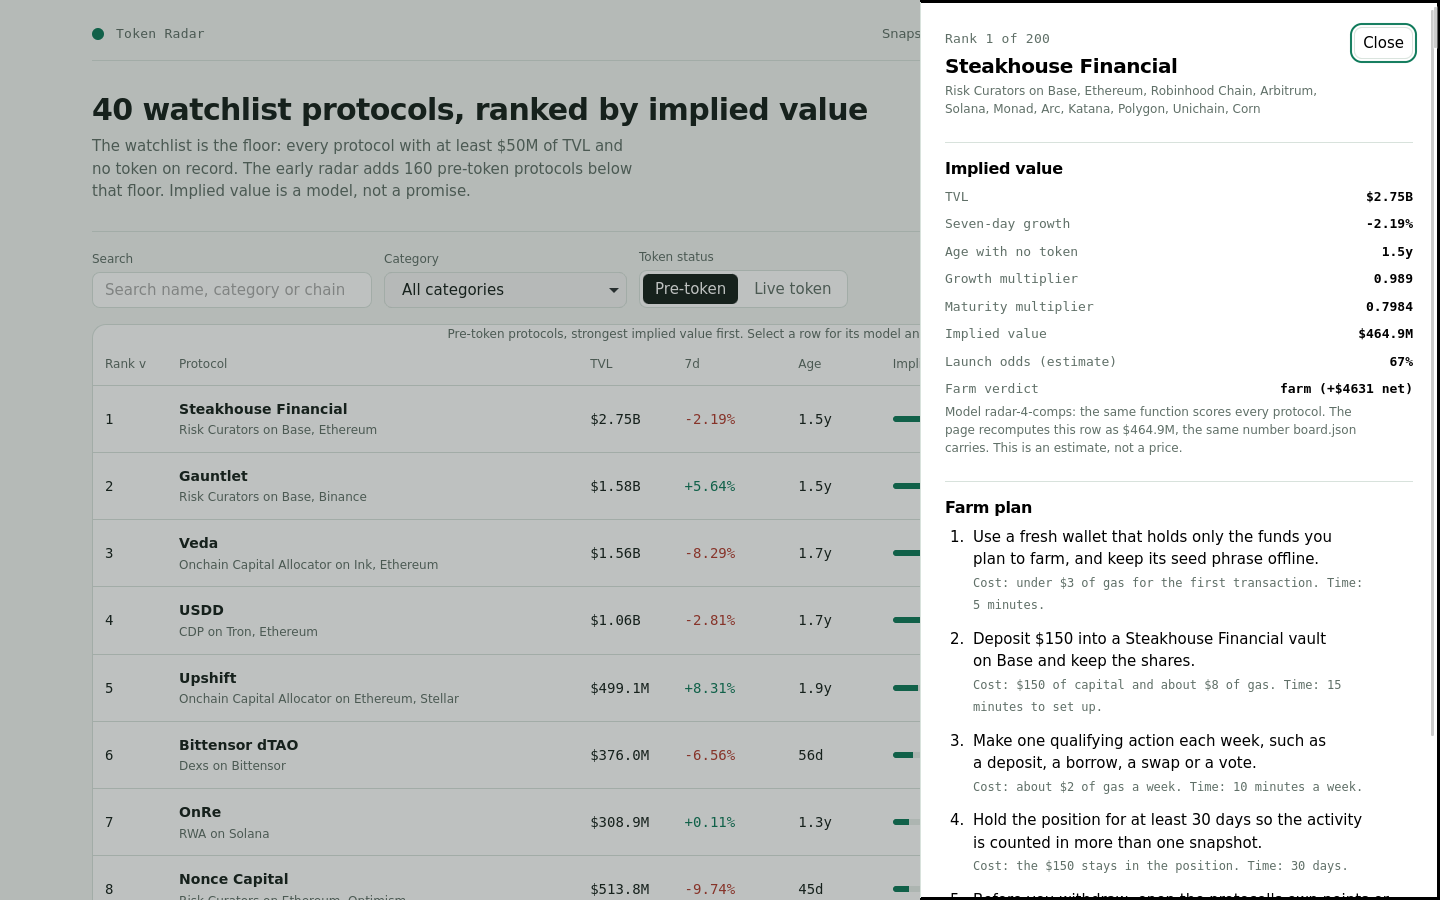
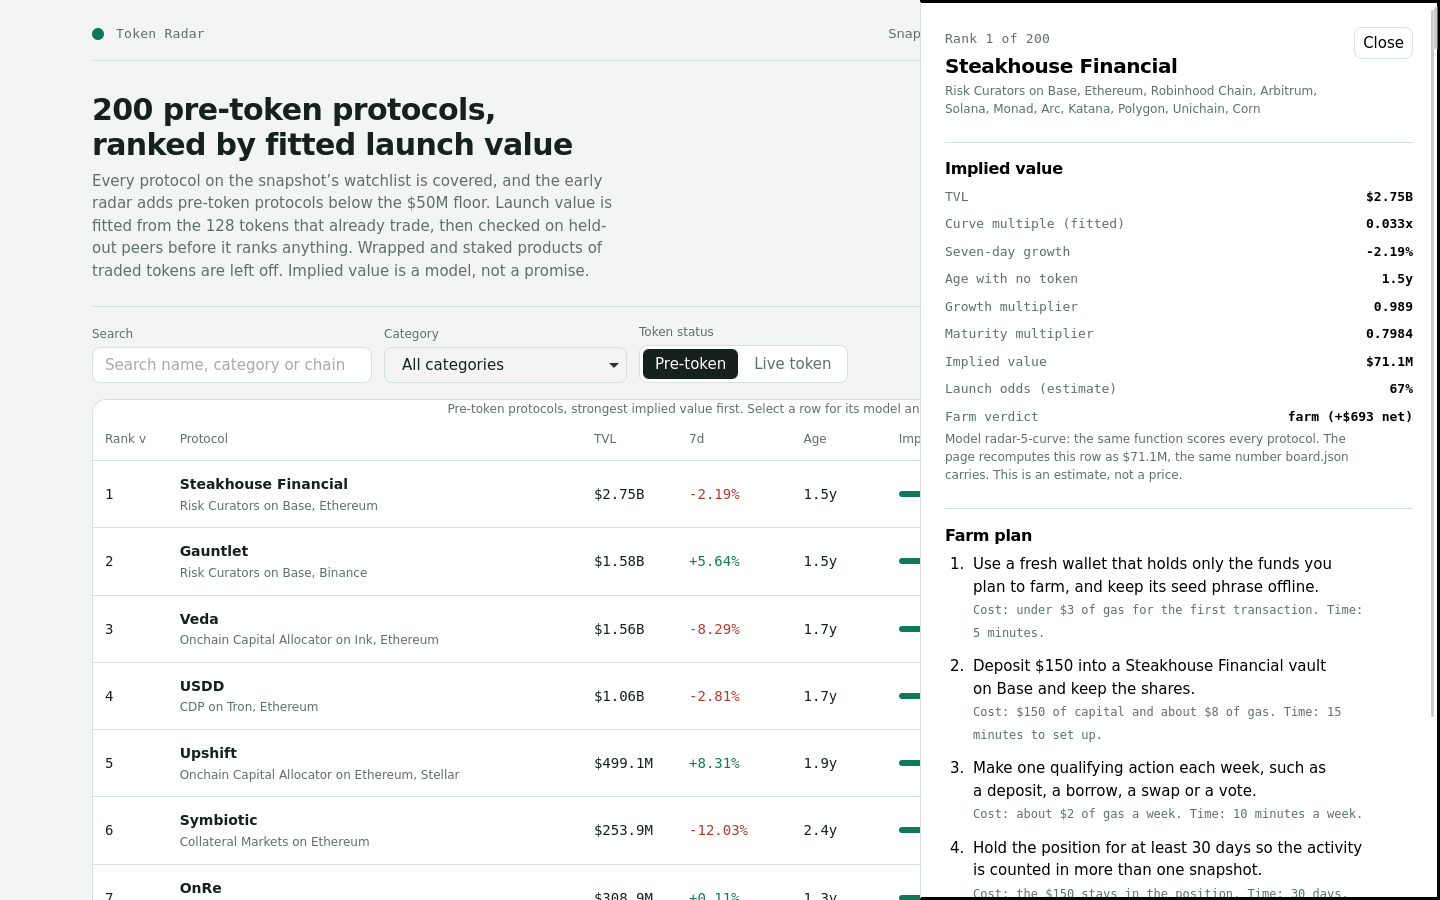
radar-5-curve: size-curve ranking fitted on 128 anchors, walk-forward improvement vs flat, wrapped/staked excluded, KPI strip, side-drawer detail

diff --git a/dashboard/app.js b/dashboard/app.js
@@ -163,14 +163,14 @@
   function lede() {
     return el('section', { class: 'lede' },
       el('div', null,
-        el('h1', { text: DATA.watchlist_size + ' watchlist protocols, ranked by implied value' }),
-        el('p', { text: 'The watchlist is the floor: every protocol with at least $' + Math.round(DATA.floor_usd / 1e6) + 'M of TVL and no token on record. The early radar adds ' + DATA.early_size + ' pre-token protocols below that floor. Implied value is a model, not a promise.' })
+        el('h1', { text: DATA.board_size + ' pre-token protocols, ranked by fitted launch value' }),
+        el('p', { text: 'Every protocol on the snapshot’s watchlist is covered, and the early radar adds pre-token protocols below the $' + Math.round(DATA.floor_usd / 1e6) + 'M floor. Launch value is fitted from the ' + DATA.anchor_size + ' tokens that already trade, then checked on held-out peers before it ranks anything. Wrapped and staked products of traded tokens are left off. Implied value is a model, not a promise.' })
       ),
-      el('div', { class: 'facts' },
-        el('div', { class: 'fact' }, el('span', { text: 'Watchlist covered' }), el('b', { text: DATA.watchlist_size + ' / ' + DATA.watchlist_size })),
-        el('div', { class: 'fact' }, el('span', { text: 'Pre-token rows scored' }), el('b', { text: String(DATA.board_size) })),
-        el('div', { class: 'fact' }, el('span', { text: 'Early rows below the floor' }), el('b', { text: String(DATA.early_size) })),
-        el('div', { class: 'fact' }, el('span', { text: 'Live-token protocols set aside' }), el('b', { text: String(DATA.live_size) }))
+      el('div', { class: 'kpi' },
+        el('div', { class: 'kpi-cell' }, el('b', { text: String(DATA.scanned_size) }), el('span', { text: 'protocols scanned' })),
+        el('div', { class: 'kpi-cell' }, el('b', { text: String(DATA.pre_token_size) }), el('span', { text: 'pre-token candidates' })),
+        el('div', { class: 'kpi-cell' }, el('b', { text: DATA.watchlist_size + ' / ' + DATA.watchlist_size }), el('span', { text: 'watchlist covered' })),
+        el('div', { class: 'kpi-cell' }, el('b', { text: String(DATA.anchor_size) }), el('span', { text: 'traded-token anchors' }))
       )
     );
   }
@@ -286,25 +286,20 @@
   function modelPanel() {
     var m = DATA.model;
     var c = DATA.comps;
-    var cats = Object.keys(c.byCategory).sort(function (a, b) { return c.byCategory[b].n - c.byCategory[a].n; });
-    var compRows = cats.map(function (k) {
-      return el('tr', null,
-        el('td', { text: k }),
-        el('td', { class: 'num', text: String(c.byCategory[k].n) }),
-        el('td', { class: 'num', text: c.byCategory[k].multiple.toFixed(3) + 'x' })
-      );
-    });
+    var v = c.validation;
+    var imp = v.improvement.toFixed(2);
     return el('section', { class: 'panel model' },
       el('h2', { text: 'How implied value is computed' }),
-      el('p', { class: 'sub', text: 'Model ' + DATA.model_version + ': the launch multiple is fitted from the snapshot’s own live tokens, not a flat guess. For each category with at least three traded protocols, the median mcap/TVL is the multiple a pre-token peer inherits; thinner categories fall back to the global median ' + c.global.toFixed(3) + 'x fitted on ' + c.live_n + ' live tokens. The curve is checked walk-forward on held-out live peers before it is used. No protocol name is special-cased.' }),
+      el('p', { class: 'sub', text: 'Model ' + DATA.model_version + ': launch value follows a size curve fitted on the snapshot’s own ' + c.live_n + ' traded tokens, not a flat guess and not a list of names. A log-log regression of market cap on TVL gives mcap = exp(' + c.reg_a.toFixed(2) + ' + ' + c.reg_b.toFixed(2) + ' x ln(TVL)); a pre-token protocol inherits that curve at its own TVL, then growth and maturity adjust it. The same function scores every row.' }),
       el('div', { class: 'formula' },
-        'implied = round( tvl_usd x comp_multiple(category) x (1 + clamp(change_7d, ' + m.growth_floor + ', ' + m.growth_cap + ') / 100 x ' + m.growth_weight + ') x (' + m.maturity_floor + ' + min(age_days, ' + m.maturity_days + ') / ' + m.maturity_days + ' x ' + m.maturity_range + ') )'
+        'implied = round( tvl_usd x curve_multiple(tvl) x (1 + clamp(change_7d, ' + m.growth_floor + ', ' + m.growth_cap + ') / 100 x ' + m.growth_weight + ') x (' + m.maturity_floor + ' + min(age_days, ' + m.maturity_days + ') / ' + m.maturity_days + ' x ' + m.maturity_range + ') )'
       ),
-      el('table', { class: 'comp-table' },
-        el('thead', null, el('tr', null, el('th', { text: 'Category' }), el('th', { text: 'Live comps' }), el('th', { text: 'Fitted multiple' }))),
-        el('tbody', null, compRows)
+      el('div', { class: 'validation' },
+        el('div', { class: 'val-cell' }, el('b', { text: imp + 'x' }), el('span', { text: 'better than a flat multiple, walk-forward' })),
+        el('div', { class: 'val-cell' }, el('b', { text: v.train_n + ' / ' + v.test_n }), el('span', { text: 'train / held-out peers' })),
+        el('div', { class: 'val-cell' }, el('b', { text: Math.round(v.within_2x * 100) + '%' }), el('span', { text: 'held-out predictions within 2x' }))
       ),
-      el('p', { class: 'sub', text: 'TVL and seven-day growth come from the snapshot. Age is the time since first listing, the best record of how long it has run with no token; an unlisted age uses ' + m.unknown_age_days + ' days. The early radar adds pre-token protocols below the watchlist floor by TVL; live-token protocols are set aside with their market caps shown as facts, not model output.' })
+      el('p', { class: 'sub', text: 'The curve is tested before it is used: every third traded token is held out, the curve is fitted on the rest, and its predictions are compared with a flat median multiple on the same held-out peers. The size curve cuts the median prediction error by ' + imp + 'x versus the flat baseline, so it earns its place on the board. TVL and seven-day growth come from the snapshot; age is the time since first listing (an unlisted age uses ' + m.unknown_age_days + ' days). Live-token protocols are set aside with their market caps shown as facts, not model output.' })
     );
   }
 
@@ -324,12 +319,13 @@
         el('h2', { id: 'detail-title', text: row.name }),
         el('p', { class: 'sub', text: (row.category || 'Other') + ' on ' + (row.chains && row.chains.length ? row.chains.join(', ') : 'an unnamed chain') })
       ),
-      el('button', { class: 'close', type: 'button', 'aria-label': 'Close details', text: 'Close', onclick: function () { dialog.close(); } })
+      el('button', { class: 'close', type: 'button', 'aria-label': 'Close details', text: 'Close', onclick: function () { dialog.removeAttribute('open'); state.selected = null; writeHash(); } })
     ));
     dialog.appendChild(el('section', { class: 'detail-section' },
       el('h3', { text: 'Implied value' }),
       el('div', { class: 'equation' },
         el('div', null, el('span', { text: 'TVL' }), el('b', { class: 'num', text: fmtUsd(row.tvl_usd) })),
+        el('div', null, el('span', { text: 'Curve multiple (fitted)' }), el('b', { class: 'num', text: row.base_multiple.toFixed(3) + 'x' })),
         el('div', null, el('span', { text: 'Seven-day growth' }), el('b', { class: 'num', text: fmtPct(row.change_7d) })),
         el('div', null, el('span', { text: 'Age with no token' }), el('b', { class: 'num', text: fmtAge(row.age_days) })),
         el('div', null, el('span', { text: 'Growth multiplier' }), el('b', { class: 'num', text: String(row.growth_multiplier) })),
@@ -349,11 +345,7 @@
         return el('li', null, el('b', { text: action }), el('span', { class: 'cost', text: tail }));
       }))
     ));
-    if (typeof dialog.showModal === 'function') {
-      if (!dialog.open) dialog.showModal();
-    } else {
-      dialog.setAttribute('open', '');
-    }
+    dialog.setAttribute('open', '');
   }
 
   function render() {

diff --git a/lib/model.ts b/lib/model.ts
@@ -6,16 +6,19 @@
 // snapshot's live-token protocols are kept apart and shown as the market's own values, never mixed into
 // the ranked board.
 //
-// Implied value follows only from the snapshot's own figures:
+// Implied value follows only from the snapshot's own figures. A log-log size curve is fitted on the
+// snapshot's traded tokens (mcap = exp(a + b x ln(TVL))); a pre-token protocol inherits that curve at
+// its own TVL, expressed as a multiple, then growth and maturity adjust it:
 //
-//   base       = tvl_usd x BASE_MULTIPLE
+//   curveMult  = clamp(exp(a + b x ln(tvl_usd)) / tvl_usd, 0.02, 3)
 //   growth     = clamp(change_7d, -60, 120) per cent
 //   growthMult = 1 + (growth / 100) x GROWTH_WEIGHT
 //   maturity   = 0.6 + min(age_days, 1095) / 1095 x 0.4   (age_days unknown: 365)
-//   implied    = max(1, round(base x growthMult x maturity))
+//   implied    = max(1, round(tvl_usd x curveMult x growthMult x maturity))
 //
-// The constants are the house model's, stated in the dashboard and changeable in the model sandbox. No
-// protocol name is ever special-cased: the same function scores every row.
+// The curve is tested walk-forward against a flat median multiple on held-out traded peers before it
+// ranks anything. Wrapped and staked products of traded tokens are left off the board. No protocol
+// name is ever special-cased: the same function scores every row.
 
 /** The snapshot's protocol entry: exactly the ten fields the sealed input carries. */
 export interface SnapshotProtocol {
@@ -64,7 +67,7 @@ export const MODEL: ModelConstants = {
 };
 
 /** The model's version label: the dashboard names it and the rules quote it. */
-export const MODEL_VERSION = 'radar-4-comps';
+export const MODEL_VERSION = 'radar-5-curve';
 
 /** A category's fitted launch multiple: median mcap/tvl of the live tokens in it, and how many fitted it. */
 export interface CompMultiple {
@@ -84,11 +87,13 @@ export interface Comps {
   reg_b: number;
 }
 
-/** Out-of-sample test of the comps curve: fit on a train split, predict the held-out live tokens. */
+/** Out-of-sample test of the comps curve against a flat-multiple baseline: fit on a train split, predict the held-out live tokens two ways, and report how much better the curve is. */
 export interface Validation {
   train_n: number;
   test_n: number;
-  median_ape: number;
+  curve_median_ape: number;
+  flat_median_ape: number;
+  improvement: number;
   within_2x: number;
 }
 
@@ -149,33 +154,40 @@ function regMcap(tvl: number, a: number, b: number): number {
   return Math.exp(a + b * Math.log(tvl));
 }
 
-/** Walk-forward test: hold out every third live token, fit the log-log curve on the rest, predict the held-out mcap, and report the median absolute percentage error and the share within 2x. */
+/** Walk-forward test: hold out every third live token, fit the log-log curve on the rest, and predict the held-out mcap two ways - the curve and a flat median multiple - then report how much better the curve is. */
 function walkForward(live: SnapshotProtocol[]): Validation {
   const train = live.filter((_, i) => i % 3 !== 0);
   const test = live.filter((_, i) => i % 3 === 0);
   const { a, b } = logLogFit(train);
-  const apes: number[] = [];
+  const flat = train.length > 0 ? median(train.map((p) => (p.mcap_usd as number) / p.tvl_usd)) : MODEL.base_multiple;
+  const curveApes: number[] = [];
+  const flatApes: number[] = [];
   let within = 0;
   for (const p of test) {
-    const pred = regMcap(p.tvl_usd, a, b);
     const actual = p.mcap_usd as number;
-    apes.push(Math.abs(pred - actual) / actual);
+    const pred = regMcap(p.tvl_usd, a, b);
+    curveApes.push(Math.abs(pred - actual) / actual);
+    flatApes.push(Math.abs(flat * p.tvl_usd - actual) / actual);
     const ratio = pred / actual;
     if (ratio >= 0.5 && ratio <= 2) within++;
   }
+  const curveMedian = curveApes.length > 0 ? median(curveApes) : 0;
+  const flatMedian = flatApes.length > 0 ? median(flatApes) : 0;
   return {
     train_n: train.length,
     test_n: test.length,
-    median_ape: apes.length > 0 ? median(apes) : 0,
+    curve_median_ape: curveMedian,
+    flat_median_ape: flatMedian,
+    improvement: curveMedian > 0 ? flatMedian / curveMedian : 1,
     within_2x: test.length > 0 ? within / test.length : 0,
   };
 }
 
-/** The launch multiple one protocol inherits: its category's fitted median mcap/TVL comp, else the global median. */
+/** The launch multiple one protocol inherits from the fitted size curve: reg(tvl)/tvl, clamped to a sane launch range. */
 export function multipleFor(p: SnapshotProtocol, comps: Comps): number {
-  const c = p.category ?? 'Uncategorized';
-  const hit = comps.byCategory[c];
-  return hit !== undefined ? hit.multiple : comps.global;
+  if (p.tvl_usd <= 0) return comps.global;
+  const mcap = regMcap(p.tvl_usd, comps.reg_a, comps.reg_b);
+  return clampMultiple(mcap / p.tvl_usd);
 }
 
 /** How many pre-token protocols below the watchlist floor the early radar carries, by TVL. */
@@ -263,6 +275,9 @@ export interface RadarData {
   board_size: number;
   early_size: number;
   live_size: number;
+  scanned_size: number;
+  pre_token_size: number;
+  anchor_size: number;
   rows: RadarRow[];
   live: LiveRow[];
   comps: Comps;
@@ -313,9 +328,12 @@ export function isPreToken(p: SnapshotProtocol): boolean {
   return p.mcap_usd === null && p.gecko_id === null && p.symbol === null;
 }
 
-/** Whether a protocol is one the board may rank: pre-token, not an exchange, not a versioned pool. */
+/** A wrapped or staked product of a token that already trades (WBTC, Binance staked ETH, USDT0 and their kin): its value is the underlying token's, not a launch of its own, so the radar leaves it off. */
+const WRAPPED = /(^|[-\s])(wrapped|staked)([-\s]|$)|^wbtc$|^usdt0$|^wrapped$/i;
+
+/** Whether a protocol is one the board may rank: pre-token, not an exchange, not a versioned pool, not a wrapped or staked product of a traded token. */
 export function isRankable(p: SnapshotProtocol): boolean {
-  return isPreToken(p) && p.category !== 'CEX' && !VERSIONED.test(p.name);
+  return isPreToken(p) && p.category !== 'CEX' && !VERSIONED.test(p.name) && !WRAPPED.test(p.slug);
 }
 
 /** The snapshot's protocol by slug. */
@@ -574,6 +592,9 @@ export function buildRadar(snapshot: Snapshot, model: ModelConstants = MODEL): {
     board_size: board.length,
     early_size: early,
     live_size: live.length,
+    scanned_size: snapshot.protocols.length,
+    pre_token_size: snapshot.protocols.filter(isRankable).length,
+    anchor_size: comps.live_n,
     rows: board.map(radarRow),
     live,
     comps,

diff --git a/dashboard/app.css b/dashboard/app.css
@@ -57,10 +57,14 @@ a { color: var(--accent); }
 .top-meta span { white-space: nowrap; }
 .lede { display: grid; grid-template-columns: minmax(0, 1.35fr) minmax(280px, 0.65fr); gap: var(--step-6); padding: var(--step-6) 0 var(--step-5); }
 .lede p { color: var(--muted); max-width: 62ch; margin-top: var(--step-2); }
-.facts { display: grid; gap: var(--step-2); align-content: start; border-left: 1px solid var(--border); padding-left: var(--step-5); }
-.fact { display: flex; align-items: baseline; justify-content: space-between; gap: var(--step-3); }
-.fact b { font-family: var(--font-num); font-size: 15px; font-weight: 500; }
-.fact span { color: var(--muted); font-size: 13px; }
+.kpi { display: grid; grid-template-columns: 1fr 1fr; gap: var(--step-3); align-content: start; border-left: 1px solid var(--border); padding-left: var(--step-5); }
+.kpi-cell { display: grid; gap: 2px; }
+.kpi-cell b { font-family: var(--font-num); font-size: 22px; font-weight: 500; line-height: 1.1; }
+.kpi-cell span { color: var(--muted); font-size: 12px; }
+.validation { display: grid; grid-template-columns: repeat(3, 1fr); gap: var(--step-4); margin: var(--step-4) 0; padding: var(--step-4); border: 1px solid var(--border); border-radius: var(--radius-control); background: var(--surface); }
+.val-cell { display: grid; gap: 2px; }
+.val-cell b { font-family: var(--font-num); font-size: 20px; font-weight: 500; color: var(--accent); }
+.val-cell span { color: var(--muted); font-size: 12px; }
 
 .controls { display: flex; flex-wrap: wrap; align-items: end; gap: var(--step-3); padding: var(--step-4) 0; border-top: 1px solid var(--border); }
 .field { display: grid; gap: var(--step-1); }
@@ -140,7 +144,8 @@ tbody tr[data-selected="true"] { background: color-mix(in srgb, var(--accent) 8%
 @media (max-width: 900px) {
   .shell { padding: var(--step-4); }
   .lede { grid-template-columns: 1fr; gap: var(--step-4); }
-  .facts { border-left: 0; border-top: 1px solid var(--border); padding-left: 0; padding-top: var(--step-4); }
+  .kpi { border-left: 0; border-top: 1px solid var(--border); padding-left: 0; padding-top: var(--step-4); }
+  .validation { grid-template-columns: 1fr; gap: var(--step-3); }
   .field input { min-width: 0; width: 100%; }
 }
 @media (prefers-reduced-motion: reduce) {

diff --git a/main.ts b/main.ts
@@ -1,4 +1,4 @@
-// A comps-fitted token-radar-01 entry (Node 22, standard library only, radar-2-comps value model).
+// A comps-fitted token-radar-01 entry (Node 22, standard library only, radar-5-curve size-curve value model).
 //
 // The program reads the sealed snapshot from /input/snapshot.json (or --input <file|dir>), scores every
 // pre-token protocol with the model in lib/model.ts, writes the ranked board to /output/board.json, and
